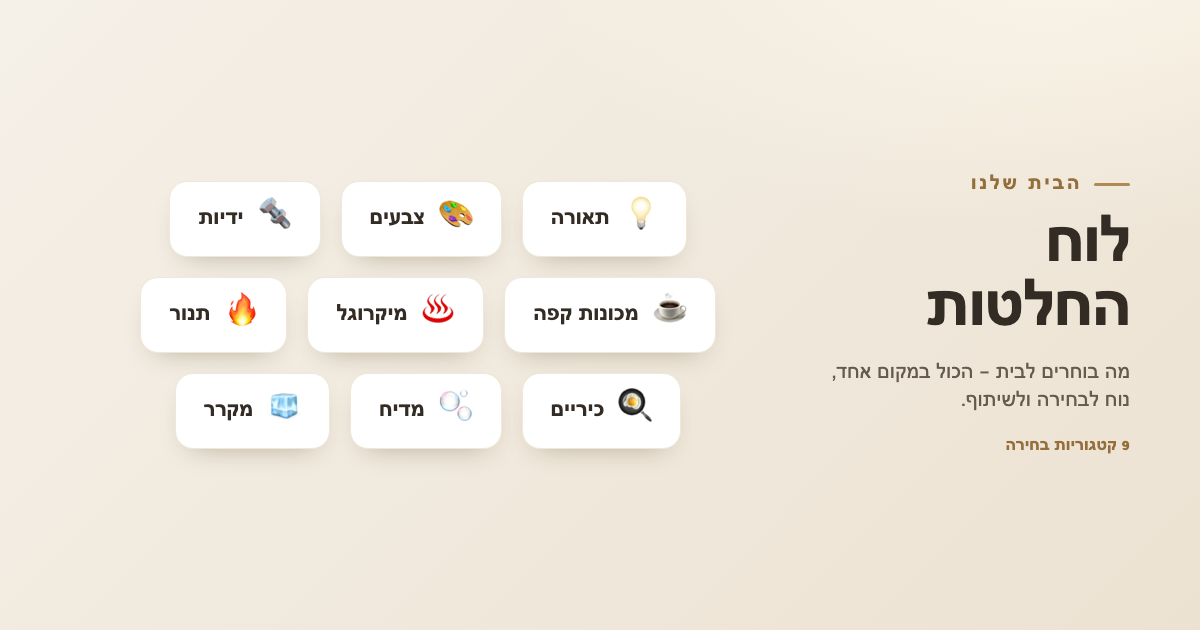
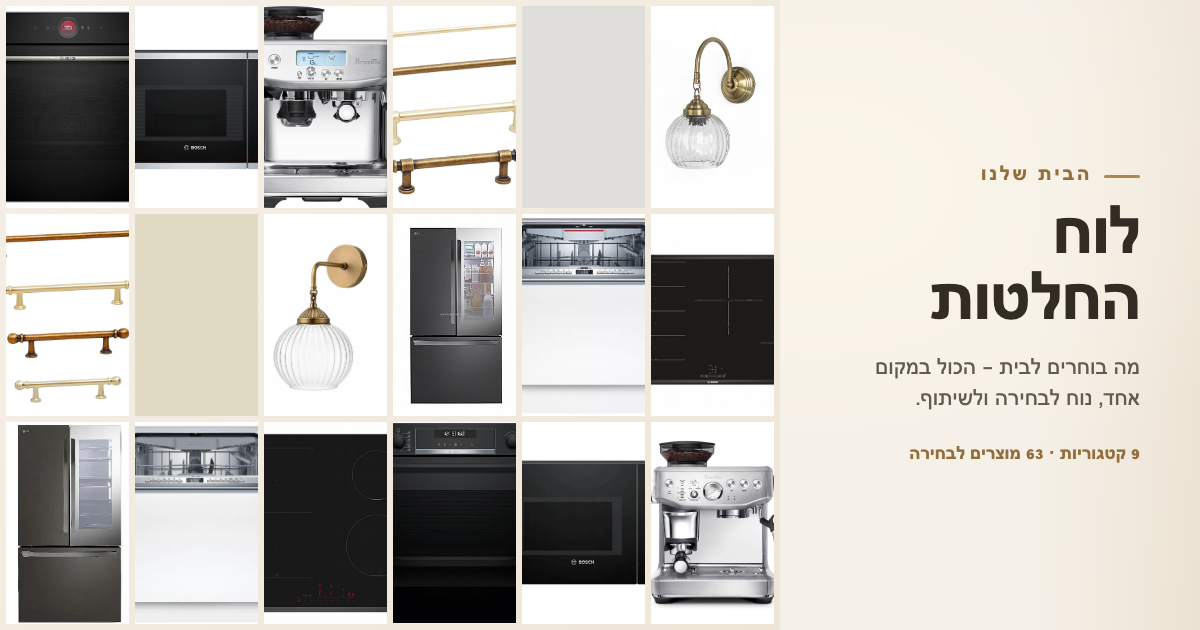
Replace category-chip OG card with a photo mosaic sampled from actual item images — truly scalable: driven by items/categories that exist, not a hardcoded label list; broken remote images fall back gracefully

diff --git a/og.html b/og.html
@@ -3,35 +3,45 @@
 *{margin:0;box-sizing:border-box}
 html,body{width:1200px;height:630px;overflow:hidden}
 body{font-family:"Heebo","Arial Hebrew","Arial",sans-serif;
-  background:radial-gradient(900px 500px at 88% -10%,#fbf5e9,rgba(0,0,0,0) 60%),linear-gradient(135deg,#f5f0e8,#ece2d2);
-  display:flex;align-items:center;gap:44px;padding:56px 70px}
-.txt{width:300px;flex-shrink:0}
+  background:linear-gradient(135deg,#f5f0e8,#ece2d2);
+  display:flex;align-items:stretch}
+.txt{width:420px;flex-shrink:0;display:flex;flex-direction:column;justify-content:center;padding:56px 60px;position:relative;z-index:2;
+  background:radial-gradient(700px 500px at 10% 30%,#fbf5e9,rgba(0,0,0,0) 65%)}
 .kick{font-size:20px;font-weight:700;letter-spacing:.14em;color:#946f3c;text-transform:uppercase;display:flex;align-items:center;gap:12px}
 .kick::before{content:"";width:36px;height:3px;border-radius:3px;background:#b08a54}
-h1{font-size:64px;font-weight:800;color:#332c25;line-height:1.0;letter-spacing:-.02em;margin:20px 0 16px}
-.lead{font-size:21px;color:#645a4f;font-weight:500;line-height:1.35}
-.cnt{margin-top:22px;font-size:17px;color:#946f3c;font-weight:700}
-.cats{flex:1;display:flex;flex-wrap:wrap;align-content:center;justify-content:center;gap:20px;height:466px}
-.chip{background:#fff;border:1px solid #efe7d9;border-radius:18px;box-shadow:0 12px 28px -16px rgba(70,50,20,.4);
-  padding:20px 28px;display:flex;align-items:center;gap:14px}
-.chip .e{font-size:34px;line-height:1}
-.chip .l{font-size:22px;font-weight:700;color:#332c25;white-space:nowrap}
+h1{font-size:66px;font-weight:800;color:#332c25;line-height:1.0;letter-spacing:-.02em;margin:20px 0 16px}
+.lead{font-size:22px;color:#645a4f;font-weight:500;line-height:1.4}
+.cnt{margin-top:26px;font-size:18px;color:#946f3c;font-weight:700}
+.mosaic{flex:1;display:grid;grid-template-columns:repeat(6,1fr);grid-auto-rows:1fr;gap:6px;padding:6px;height:630px}
+.tile{background:#e9ddc8;overflow:hidden}
+.tile img{width:100%;height:100%;object-fit:cover;display:block}
+.fade{position:absolute;inset:0;width:420px;background:linear-gradient(90deg,#f5f0e8 60%,rgba(245,240,232,0));pointer-events:none;z-index:1}
 </style></head><body>
+<div class="fade"></div>
 <div class="txt">
   <div class="kick">הבית שלנו</div>
   <h1>לוח החלטות</h1>
   <div class="lead">מה בוחרים לבית — הכול במקום אחד, נוח לבחירה ולשיתוף.</div>
-  <div class="cnt">9 קטגוריות בחירה</div>
+  <div class="cnt">9 קטגוריות · 63 מוצרים לבחירה</div>
 </div>
-<div class="cats">
-  <div class="chip"><span class="e">💡</span><span class="l">תאורה</span></div>
-  <div class="chip"><span class="e">🎨</span><span class="l">צבעים</span></div>
-  <div class="chip"><span class="e">🔩</span><span class="l">ידיות</span></div>
-  <div class="chip"><span class="e">☕</span><span class="l">מכונות קפה</span></div>
-  <div class="chip"><span class="e">♨</span><span class="l">מיקרוגל</span></div>
-  <div class="chip"><span class="e">🔥</span><span class="l">תנור</span></div>
-  <div class="chip"><span class="e">🍳</span><span class="l">כיריים</span></div>
-  <div class="chip"><span class="e">🫧</span><span class="l">מדיח</span></div>
-  <div class="chip"><span class="e">🧊</span><span class="l">מקרר</span></div>
+<div class="mosaic">
+  <div class="tile"><img src="img/product-2419.jpg" loading="eager" onerror="this.style.display='none'"></div>
+  <div class="tile" style="background:#dfdedb"></div>
+  <div class="tile"><img src="img/handle01.jpg" loading="eager" onerror="this.style.display='none'"></div>
+  <div class="tile"><img src="https://www.citydeal.co.il/images/itempics/19331_23092024112145.jpg" loading="eager" onerror="this.style.display='none'"></div>
+  <div class="tile"><img src="https://ecdn.speedsize.com/566103a2-53f1-4a19-905b-45d84f5c6ca2/www.bettershop.co.il/wp-content/uploads/2019/07/BEL523MS01.jpg" loading="eager" onerror="this.style.display='none'"></div>
+  <div class="tile"><img src="https://www.mispar1.co.il/images/itempics/18780_111120241143161_large.jpg" loading="eager" onerror="this.style.display='none'"></div>
+  <div class="tile"><img src="https://storage.googleapis.com/hashmal-price-bucket/2025/07/PXE875BB1E.jpg" loading="eager" onerror="this.style.display='none'"></div>
+  <div class="tile"><img src="https://www.electroclick.co.il/images/itempics/5860_190520221331231.jpg" loading="eager" onerror="this.style.display='none'"></div>
+  <div class="tile"><img src="https://www.electricland.co.il/images/itempics/GMZ765_280520251555060_large.jpg" loading="eager" onerror="this.style.display='none'"></div>
+  <div class="tile"><img src="img/k2.webp" loading="eager" onerror="this.style.display='none'"></div>
+  <div class="tile" style="background:#e1dbc6"></div>
+  <div class="tile"><img src="img/handle02.jpg" loading="eager" onerror="this.style.display='none'"></div>
+  <div class="tile"><img src="https://www.citydeal.co.il/images/itempics/19328-2_23092024104925.jpg" loading="eager" onerror="this.style.display='none'"></div>
+  <div class="tile"><img src="https://img.zap.co.il/pics/3/9/4/4/95094493c.gif" loading="eager" onerror="this.style.display='none'"></div>
+  <div class="tile"><img src="https://www.mispar1.co.il/images/itempics/19761_090220251255581_large.jpg" loading="eager" onerror="this.style.display='none'"></div>
+  <div class="tile"><img src="https://www.electroclick.co.il/images/itempics/7727_101020241505111_large.jpg" loading="eager" onerror="this.style.display='none'"></div>
+  <div class="tile"><img src="https://www.pisga-shop.co.il/images/itempics/6210_140420252331301.jpg" loading="eager" onerror="this.style.display='none'"></div>
+  <div class="tile"><img src="https://www.mahsanyvoan.co.il/images/itempics/R-3D288BINS_2703202615232514061_large.jpg" loading="eager" onerror="this.style.display='none'"></div>
 </div>
 </body></html>

diff --git a/build.py b/build.py
@@ -1081,46 +1081,69 @@ os.makedirs(os.path.join(REPO,"picks"),exist_ok=True)
 open(os.path.join(REPO,"picks","index.html"),"w",encoding="utf-8").write(picks)
 
 # --- Social-preview card (og.html → screenshot to og.png/og.jpg) ---
-# Scalable by design: chips are generated FROM the live CATS list and wrap onto
-# as many rows as needed, so adding/removing a category never requires a manual
-# redesign. After editing CATS, just rerun this script, then regenerate the images:
+# Scalable by design: a photo mosaic sampled round-robin from whatever categories
+# exist, driven by real item images/colors — NOT a per-category label list. Add a
+# 10th, 20th, 50th category and this needs zero changes: the grid just keeps tiling
+# (CSS grid auto-fill), and the round-robin sampler naturally spreads across every
+# category that has items. Only the total item/category COUNT is shown as text.
+# After editing CATS/DATA, rerun this script, then regenerate the images:
 #   python3 build.py && "/Applications/Google Chrome.app/Contents/MacOS/Google Chrome" \
 #     --headless --disable-gpu --screenshot=og.png --window-size=1200,630 \
 #     --hide-scrollbars "file://$(pwd)/og.html" && \
 #   python3 -c "from PIL import Image; Image.open('og.png').convert('RGB').save('og.jpg', quality=88)"
 og_cats=[c for c in CATS if c["key"]!="all"]
-og_chips="\n  ".join(f'<div class="chip"><span class="e">{c["icon"]}</span><span class="l">{c["label"]}</span></div>' for c in og_cats)
+by_cat={}
+for it in DATA:
+    if it.get("img") or it.get("hex"): by_cat.setdefault(it["cat"],[]).append(it)
+TILE_CAP=18
+og_tiles=[]
+i=0
+while len(og_tiles)<TILE_CAP:
+    added=False
+    for c in og_cats:
+        pool=by_cat.get(c["key"]) or []
+        if i<len(pool):
+            og_tiles.append(pool[i]); added=True
+            if len(og_tiles)>=TILE_CAP: break
+    if not added: break
+    i+=1
+def og_tile_html(it):
+    if it.get("hex"): return f'<div class="tile" style="background:{it["hex"]}"></div>'
+    return f'<div class="tile"><img src="{it["img"]}" loading="eager" onerror="this.style.display=\'none\'"></div>'
+og_mosaic="\n  ".join(og_tile_html(t) for t in og_tiles)
 og_tpl=r'''<!doctype html><html lang="he" dir="rtl"><head><meta charset="utf-8">
 <style>
 *{margin:0;box-sizing:border-box}
 html,body{width:1200px;height:630px;overflow:hidden}
 body{font-family:"Heebo","Arial Hebrew","Arial",sans-serif;
-  background:radial-gradient(900px 500px at 88% -10%,#fbf5e9,rgba(0,0,0,0) 60%),linear-gradient(135deg,#f5f0e8,#ece2d2);
-  display:flex;align-items:center;gap:44px;padding:56px 70px}
-.txt{width:300px;flex-shrink:0}
+  background:linear-gradient(135deg,#f5f0e8,#ece2d2);
+  display:flex;align-items:stretch}
+.txt{width:420px;flex-shrink:0;display:flex;flex-direction:column;justify-content:center;padding:56px 60px;position:relative;z-index:2;
+  background:radial-gradient(700px 500px at 10% 30%,#fbf5e9,rgba(0,0,0,0) 65%)}
 .kick{font-size:20px;font-weight:700;letter-spacing:.14em;color:#946f3c;text-transform:uppercase;display:flex;align-items:center;gap:12px}
 .kick::before{content:"";width:36px;height:3px;border-radius:3px;background:#b08a54}
-h1{font-size:64px;font-weight:800;color:#332c25;line-height:1.0;letter-spacing:-.02em;margin:20px 0 16px}
-.lead{font-size:21px;color:#645a4f;font-weight:500;line-height:1.35}
-.cnt{margin-top:22px;font-size:17px;color:#946f3c;font-weight:700}
-.cats{flex:1;display:flex;flex-wrap:wrap;align-content:center;justify-content:center;gap:20px;height:466px}
-.chip{background:#fff;border:1px solid #efe7d9;border-radius:18px;box-shadow:0 12px 28px -16px rgba(70,50,20,.4);
-  padding:20px 28px;display:flex;align-items:center;gap:14px}
-.chip .e{font-size:34px;line-height:1}
-.chip .l{font-size:22px;font-weight:700;color:#332c25;white-space:nowrap}
+h1{font-size:66px;font-weight:800;color:#332c25;line-height:1.0;letter-spacing:-.02em;margin:20px 0 16px}
+.lead{font-size:22px;color:#645a4f;font-weight:500;line-height:1.4}
+.cnt{margin-top:26px;font-size:18px;color:#946f3c;font-weight:700}
+.mosaic{flex:1;display:grid;grid-template-columns:repeat(6,1fr);grid-auto-rows:1fr;gap:6px;padding:6px;height:630px}
+.tile{background:#e9ddc8;overflow:hidden}
+.tile img{width:100%;height:100%;object-fit:cover;display:block}
+.fade{position:absolute;inset:0;width:420px;background:linear-gradient(90deg,#f5f0e8 60%,rgba(245,240,232,0));pointer-events:none;z-index:1}
 </style></head><body>
+<div class="fade"></div>
 <div class="txt">
   <div class="kick">הבית שלנו</div>
   <h1>לוח החלטות</h1>
   <div class="lead">מה בוחרים לבית — הכול במקום אחד, נוח לבחירה ולשיתוף.</div>
-  <div class="cnt">__COUNT__ קטגוריות בחירה</div>
+  <div class="cnt">__COUNT__</div>
 </div>
-<div class="cats">
-  __CHIPS__
+<div class="mosaic">
+  __TILES__
 </div>
 </body></html>
 '''
-og_html=og_tpl.replace("__CHIPS__",og_chips).replace("__COUNT__",str(len(og_cats)))
+og_count_text=f"{len(og_cats)} קטגוריות · {len([d for d in DATA if d.get('type')=='product'])} מוצרים לבחירה"
+og_html=og_tpl.replace("__TILES__",og_mosaic).replace("__COUNT__",og_count_text)
 open(os.path.join(REPO,"og.html"),"w",encoding="utf-8").write(og_html)
 
-print("board built | items",len(DATA),"| bytes",len(out),"| + /picks/ fresh copy | og.html:",len(og_cats),"cats")
+print("board built | items",len(DATA),"| bytes",len(out),"| + /picks/ fresh copy | og.html:",len(og_cats),"cats,",len(og_tiles),"mosaic tiles")
